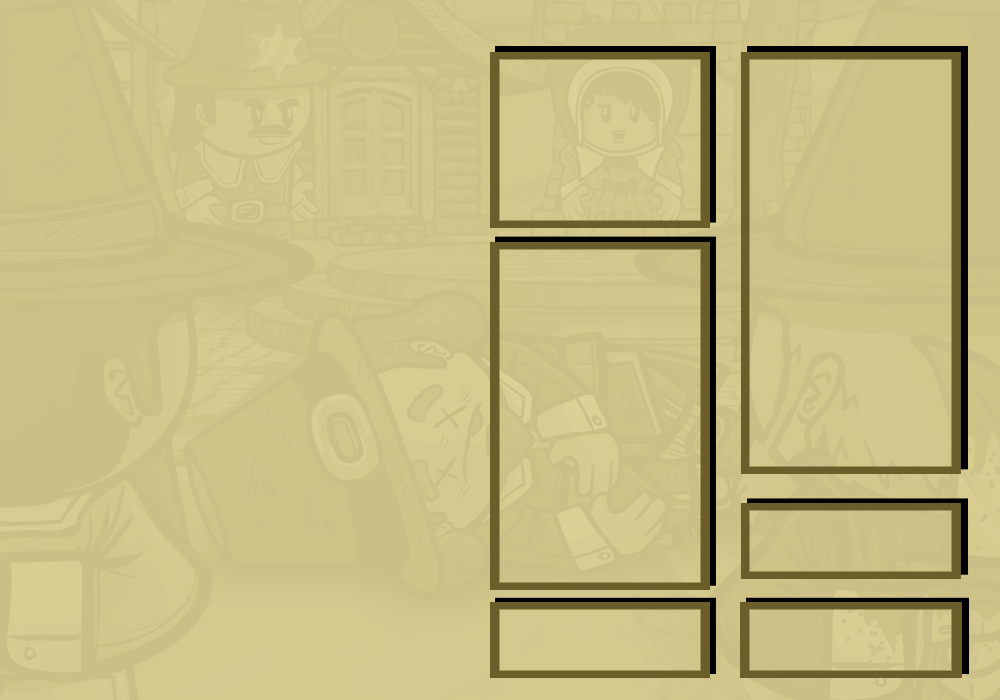
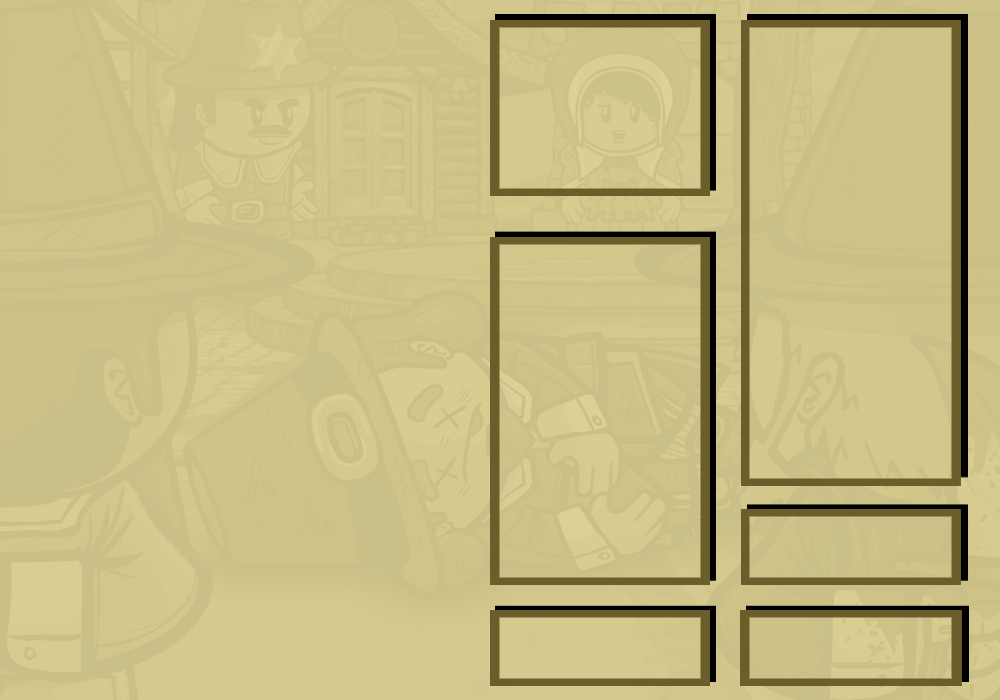
Updated BG image, and coordinate positions of updated components

diff --git a/Generator/src/gui/Display.java b/Generator/src/gui/Display.java
@@ -36,9 +36,9 @@ public class Display {
         Button AddRole = new Button("Add role");
         Button RemoveRole = new Button("Remove role");
         Button Start = new Button("Start");
-        AddRole.setBounds(500, 610, 200, 60);
-        RemoveRole.setBounds(750, 510, 200, 60);
-        Start.setBounds(750, 610, 200, 60);
+        AddRole.setBounds(500, 618, 200, 60);
+        RemoveRole.setBounds(750, 517, 200, 60);
+        Start.setBounds(750, 618, 200, 60);
         AddRole.setActionCommand("Add");
         RemoveRole.setActionCommand("Remove");
         Start.setActionCommand("Start");

diff --git a/Generator/src/gui/RoleStack.java b/Generator/src/gui/RoleStack.java
@@ -15,9 +15,9 @@ public class RoleStack {
     private int currentLabel; // Tracker for which element in the stack we are on
     private int fontSize = 20;
     private int initx = 750; // X coordinate of the stack of boxes
-    private int inity = 60; // Y coordinate of the corner of the top left box
+    private int inity = 28; // Y coordinate of the corner of the top left box
     private int boxlength = 200; // Length of each box
-    private int boxwidth = 27; // Height of each box
+    private int boxwidth = 30; // Height of each box
 
     public RoleStack(Panel target) {
 
